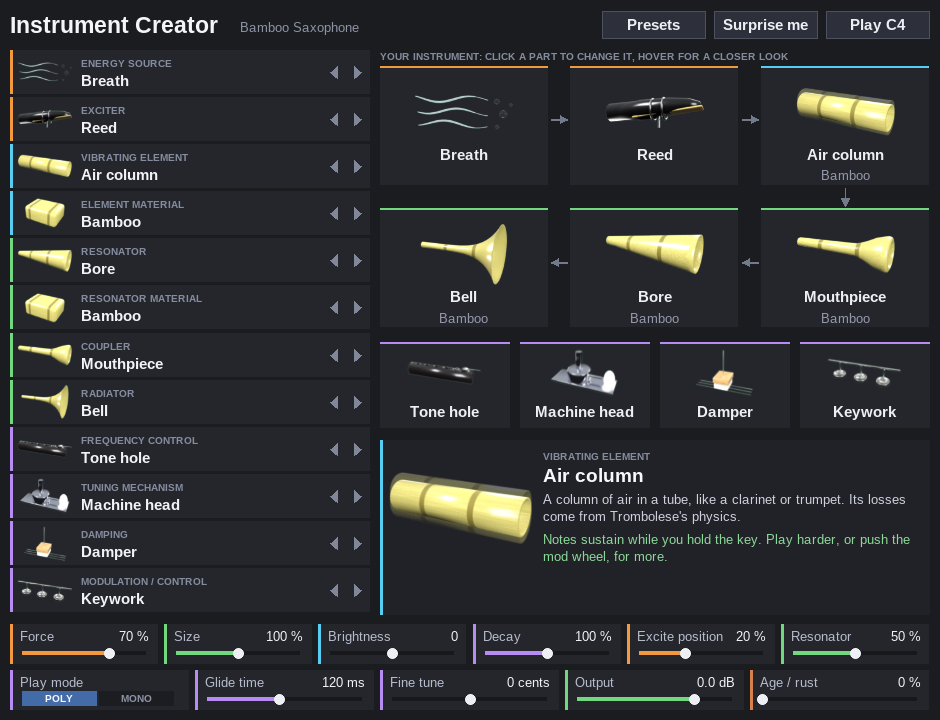
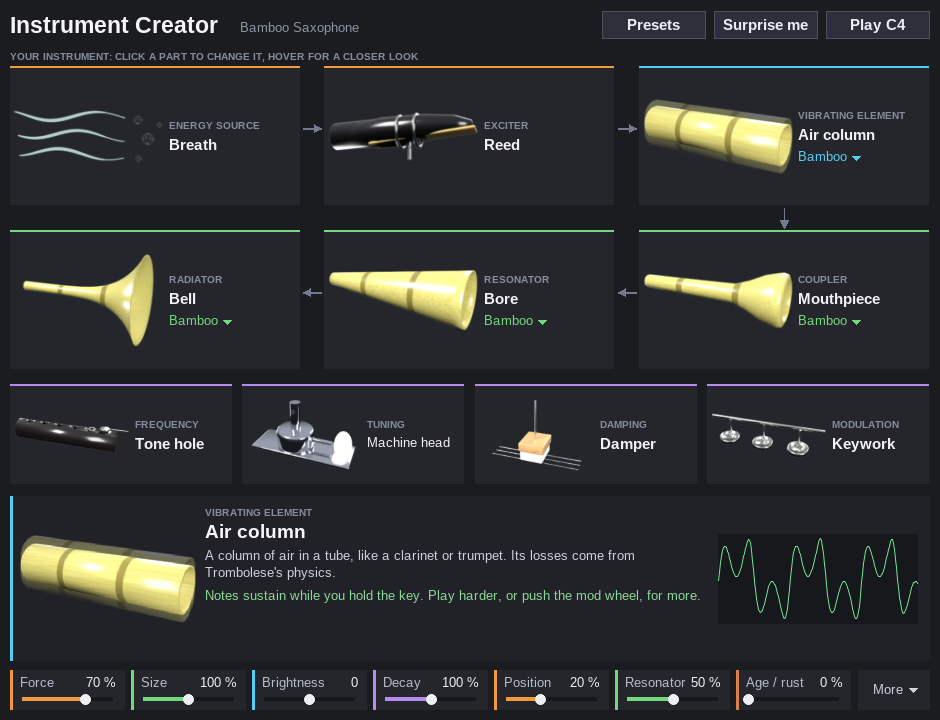
Window: one diagram instead of list plus diagram; four controls under More
The part list duplicated the diagram, so it is gone: the diagram spans the
window, each tile with its picture, category, option and material, arrows
on hover and the wheel to step. Materials are chosen from the coloured
material name or a Made of submenu in each part's menu. Seven controls sit
in one row; Play mode, Glide, Fine tune and Output open under More.
@init now sets gfx_ext_retina = 1, so Retina screens get full resolution.
Test tools: shot.py SHOT_CLICK, click CLICK_MENU and all 23 sliders. ADR 0021.

Claude-Session: https://claude.ai/code/session_015mY9pQ7jEQsUcyLH33i2Qr

diff --git a/tools/click.cpp b/tools/click.cpp
@@ -2,7 +2,7 @@
 // usage: click fx.jsfx out.bgra|- width height step... [slider=value ...]
 // A step is one @gfx frame: "x,y,buttons[,mods[,wheel]]" (buttons: 1 left,
 // 4 right; mods: 1 shift, 2 ctrl, 4 alt), or "wait=MS" to let real time pass
-// (double-clicks are timed). Prints slider 13-23 values, and which sliders
+// (double-clicks are timed). Prints every slider value (1-23), and which sliders
 // the window changed, automated and touched.
 #include "ysfx.h"
 #include <chrono>
@@ -11,7 +11,8 @@
 #include <cstring>
 #include <vector>
 static void logr(intptr_t, ysfx_log_level l, const char *m){ fprintf(stderr,"[%s] %s\n", ysfx_log_level_string(l), m); }
-static int32_t menu(void*, const char*, int32_t, int32_t){ return 0; }
+// CLICK_MENU=n picks item n of any popup menu (0 = none); CLICK_MENU_SHOW prints the menu
+static int32_t menu(void*, const char*m, int32_t, int32_t){ if(getenv("CLICK_MENU_SHOW")) fprintf(stderr,"menu: %s\n",m); return getenv("CLICK_MENU")?atoi(getenv("CLICK_MENU")):0; }
 int main(int argc,char**argv){
   if(argc<5){fprintf(stderr,"usage\n");return 1;}
   ysfx_config_t*c=ysfx_config_new(); ysfx_set_log_reporter(c,&logr);
@@ -38,7 +39,7 @@ int main(int argc,char**argv){
     chg|=ysfx_fetch_slider_changes(fx,0); aut|=ysfx_fetch_slider_automations(fx,0); tch|=ysfx_fetch_slider_touches(fx,0);
   }
   ysfx_gfx_update_mouse(fx,0,-1,-1,0,0,0); ysfx_gfx_run(fx);
-  for(int s=13;s<=23;s++) printf("%d=%g ", s, ysfx_slider_get_value(fx,s-1));
+  for(int s=1;s<=23;s++) printf("%d=%g ", s, ysfx_slider_get_value(fx,s-1));
   printf("\nchanged=%llx automated=%llx touched=%llx visible=%llx\n",(unsigned long long)chg,(unsigned long long)aut,(unsigned long long)tch,(unsigned long long)ysfx_get_slider_visibility(fx,0));
   if(strcmp(argv[2],"-")){ FILE*fo=fopen(argv[2],"wb"); fwrite(px.data(),1,px.size(),fo); fclose(fo); }
   ysfx_free(fx); return 0;

diff --git a/tools/shot.cpp b/tools/shot.cpp
@@ -1,7 +1,8 @@
 // Headless screenshot of a JSFX's @gfx: writes raw BGRA pixels.
 // usage: shot fx.jsfx out.bgra width height mouse_x mouse_y [slider=value ...]
 // Runs one second of audio with a held note first, so meters have something to show.
-// SHOT_SCALE=2 in the environment draws as on a Retina screen (gfx_ext_retina = 2).
+// SHOT_SCALE=2 in the environment draws as on a Retina screen (gfx_ext_retina = 2);
+// SHOT_CLICK=1 clicks once at the mouse position first (menus return nothing).
 #include "ysfx.h"
 #include <cstdio>
 #include <cstdlib>
@@ -29,7 +30,9 @@ int main(int argc,char**argv){
   ysfx_gfx_config_t gc{}; gc.pixel_width=w; gc.pixel_height=h; gc.pixel_stride=4*w; gc.pixels=px.data(); gc.scale_factor=getenv("SHOT_SCALE")?atof(getenv("SHOT_SCALE")):1.0; gc.show_menu=&menu;
   ysfx_gfx_setup(fx,&gc);
   ysfx_gfx_set_window_state(fx,true,true,true);
-  for(int k=0;k<3;k++){ ysfx_gfx_update_mouse(fx,0,mx,my,0,0,0); ysfx_gfx_run(fx); }
+  // SHOT_CLICK=1: click once at the mouse position before the last frame
+  bool clk=getenv("SHOT_CLICK")!=nullptr;
+  for(int k=0;k<4;k++){ ysfx_gfx_update_mouse(fx,0,mx,my,(clk&&k==1)?ysfx_button_left:0,0,0); ysfx_gfx_run(fx); }
   FILE*fo=fopen(argv[2],"wb"); fwrite(px.data(),1,px.size(),fo); fclose(fo);
   ysfx_free(fx); return 0;
 }

diff --git a/README.md b/README.md
@@ -41,22 +41,33 @@ Reverberator makes a very good partner after it.
 
 ## Using the window
 
-- **The list on the left** has your twelve choices: the ten parts, plus what
-  the vibrating element and the resonator are made of. Click a row for a menu,
-  click the small arrows to step through the options, or roll the mouse wheel
-  over it.
-- **The picture on the right** is your instrument, drawn part by part, in the
-  order the energy flows through it. Click any part in it to change it. The
-  element's picture moves when it sounds.
-- **Hover over anything** and the panel at the bottom shows a big picture of
-  that part, what it does, and (for materials) how stiff and heavy it is and
-  how long it rings. The green line tells you how your combination will play,
+- **The big picture** is your instrument, part by part, in the order the
+  energy flows through it (the arrows), with the four controls (frequency
+  control, tuning, damping, modulation) in the row underneath. Each part
+  shows its picture, what kind of part it is, and which option you chose.
+  To change a part:
+  - click it for a menu of its options;
+  - or hover over it and click the small arrows in its top corner to step
+    through them;
+  - or roll the mouse wheel over it.
+- **Materials.** The vibrating element, resonator, coupler and radiator also
+  show what they are made of, in colour with a small ▾. Click the material
+  name for the list of 31 materials, or roll the wheel over it. The part's
+  own menu has them too, under **Made of**. The resonator, coupler and
+  radiator always share one material, so changing it on one changes all
+  three. The element's picture shimmers while it sounds.
+- **Hover over anything** (a part, a material name, a control) and the
+  panel at the bottom shows a big picture of it, what it does, and (for a
+  material) how stiff and heavy it is and how long it rings. The green line tells you how your combination will play,
   and the little screen shows the sound's waveform as you play.
-- **The controls along the bottom** (Force, Size, Brightness, Decay and the
-  rest, described [below](#the-controls)) shape how it plays. Drag one to
-  change it (hold **Shift** for small steps), roll the mouse wheel over it,
-  or double-click it to put it back to normal. Hover over one and the panel
-  explains what it does. Play mode is a switch: click Poly or Mono.
+- **The controls along the bottom** (Force, Size, Brightness, Decay,
+  Position, Resonator and Age, described [below](#the-controls)) shape how
+  it plays. Drag one to change it (hold **Shift** for small steps), roll the
+  mouse wheel over it, or double-click it to put it back to normal. Hover
+  over one and the panel explains what it does.
+- **More** (bottom right) opens a second row with the four controls you
+  usually set once: Play mode (a switch: click Poly or Mono), Glide time,
+  Fine tune and Output. Click **Less** to tuck them away again.
 - **Presets** has 19 ready-made instruments to start from. **Surprise me**
   picks every part at random. **Play C4** plays a note so you can hear a change
   without touching your keyboard.
@@ -352,7 +363,7 @@ python3 tools/trims.py                   # loudness trims after a sound change
 python3 tools/shot.py out.png            # screenshot of the window
 python3 tools/render_parts.py            # re-render every part picture in Blender (~40 min)
 python3 tools/render_parts.py --blend    # save the models as .blend files in blender/
-tools/build/click Instrument-Creator.jsfx - 940 720 103,649,0 103,649,1 40,649,1 40,649,0   # drag a control
+tools/build/click Instrument-Creator.jsfx - 940 720 85,699,0 85,699,1 40,699,1 40,699,0   # drag a control
 python3 tools/spectrograms.py out.png    # spectrograms of every preset
 ```
 

diff --git a/docs/adr/0021-one-diagram-materials-in-menus-four-controls-und.md b/docs/adr/0021-one-diagram-materials-in-menus-four-controls-und.md
@@ -1,0 +1,54 @@
+# 0021. One diagram, materials in menus, four controls under More
+
+- Status: Accepted
+- Date: 2026-10-08
+- Amends: [0012](0012-a-window-drawn-entirely-in-code.md) (the part list is
+  gone), [0019](0019-every-control-in-the-window-reaper-sliders-hidden.md)
+  (one row of controls, not two)
+
+## Context
+
+With the 3D pictures (ADR 0020) the user found the window busy and asked
+what could go under a tab or into a menu. Every part was shown three times:
+a row in the list on the left (icon, name, arrows), a tile in the diagram,
+and the preview panel. Eleven controls filled two rows, four of them
+(play mode, glide, fine tune, output) usually set once.
+
+## Decision
+
+- **The list goes; the diagram is the one place to choose parts**, across
+  the whole width. Each tile (`tile()`) puts the picture on the left and the
+  category, the option and (for the element, resonator, coupler and
+  radiator) the material on the right. A click opens the part's menu; arrows
+  appear in the top corner on hover; the wheel steps the option. The four
+  control parts use the same tile, smaller.
+- **Materials live in menus.** The material name on a tile is coloured with
+  a ▾: click it for the 31 materials (`part_menu(3 or 5)`), roll the wheel
+  over it to step, hover it to see the material in the preview panel. The
+  part's own menu ends with a "Made of" submenu. Menu ids count items only
+  (REAPER's `eel_lice.h` and ysfx's `ysfx_parse_menu.cpp` agree: separators
+  and submenu headings take no id), so an id above the option count is a
+  material.
+- **Seven controls in one row** (Force, Size, Brightness, Decay, Position,
+  Resonator, Age) and a **More** button that shows a second row with Play
+  mode, Glide, Fine tune and Output (`more_ctl`, window-only, not saved).
+- `@init` sets `gfx_ext_retina = 1`, which REAPER needs before it draws at
+  full resolution on a Retina screen; the layout already scaled by `gsc`.
+  Before this the window was drawn at 1× and enlarged by macOS.
+
+## Consequences
+
+- Each part appears twice (tile and preview), and the pictures are larger.
+- Changing the resonator material from the coupler or radiator tile changes
+  all three, as before; the README says so.
+- `more_ctl` resets to closed when the window is reopened.
+- Narrow windows: control names fall back from full to short to tiny
+  (`ctl_tiny`); tile captions to `cat_short`, option names to the small
+  font.
+
+## Alternatives considered
+
+- **Tabs** (Build / Play): would hide the controls while choosing parts or
+  the parts while playing; both are wanted at once.
+- **Keep the list, drop the diagram**: the list is compact, but the diagram
+  shows how the parts connect and has room for the pictures.

diff --git a/CLAUDE.md b/CLAUDE.md
@@ -43,7 +43,7 @@ tools/build_host.sh       builds ysfx (with graphics) and four hosts into tools/
 tools/render.cpp          MIDI events file -> raw float32 stereo
 tools/shot.cpp            screenshot of @gfx (plays a note first); tools/shot.py -> PNG; SHOT_SCALE=2 for Retina
 tools/render_parts.py     Blender (pip install bpy): models every part, renders Instrument-Creator-images/
-tools/click.cpp           drive @gfx with a mouse script; prints sliders 13-23 and automation flags
+tools/click.cpp           drive @gfx with a mouse script; prints sliders 1-23 and automation flags; CLICK_MENU=n picks menu item n
 tools/inspect.cpp         dump plugin memory after N blocks of a held note
 tools/analyse.py          render/measure helpers (LUFS, YIN pitch), the part and material name lists
 tools/sweep.py            every energy x exciter x element: level, pitch, flags
@@ -63,13 +63,14 @@ matplotlib`). `tools/build/` is git-ignored.
 ```
 1 energy source  2 exciter  3 vibrating element  4 element material  5 resonator
 6 resonator material  7 coupler  8 radiator  9 frequency control  10 tuning
-11 damping  12 modulation   (1-12 hidden; the window shows them, row = slider - 1)
+11 damping  12 modulation   (1-12 hidden; tile(c) in the window shows slider c + 1)
 13 force  14 size  15 brightness  16 decay  17 excite position  18 resonator amount
 19 play mode  20 glide time  21 fine tune  22 output  23 age / rust
 ```
 
 All 23 are hidden from REAPER's slider list (`-` before the name) and drawn
-in the window: 13-23 as the control strip (`control()`, ADR 0019), whose
+in the window: 13-23 as the control strip (`control()`, ADR 0019; one row
+and More, ADR 0021), whose
 ranges, defaults and log midpoints are repeated in `ctl_min/max/def/mid`;
 change both.
 
@@ -88,7 +89,9 @@ python3 tools/age_test.py                     # ~10 min
 python3 tools/shot.py out.png 940 720 mx my 3=2 4=8   # then look at the PNG
 SHOT_SCALE=2 python3 tools/shot.py out.png 1880 1440   # as on the user's Retina Mac
 python3 tools/render_parts.py --out /tmp/x --samples 16 --mats 12 2_0   # draft one shape; no args = all (~35 min)
-tools/build/click Instrument-Creator.jsfx - 940 720 103,649,0 103,649,1 40,649,1 40,649,0   # drag Force
+tools/build/click Instrument-Creator.jsfx - 940 720 85,699,0 85,699,1 40,699,1 40,699,0   # drag Force
+CLICK_MENU=12 tools/build/click Instrument-Creator.jsfx - 940 720 700,140,0 700,140,1 700,140,0   # element menu: Made of > Glass
+SHOT_CLICK=1 python3 tools/shot.py out.png 940 720 890 690   # click once (here: More) before the screenshot
 ```
 
 ## EEL2 traps (Reverberator ADR 0010, and new ones)

diff --git a/docs/SESSION-LOG.md b/docs/SESSION-LOG.md
@@ -354,6 +354,33 @@ out sprite sheets declared that way (ADR 0020).
   `materials.blend` is a labelled table of swatches (first try viewed them
   head-on and flat; now from above at an angle, scaled to fit the lights).
 
+## 19. A calmer window
+
+The user found the window busy and asked what could go under a tab or into
+a menu. Each part was shown three times (list row, diagram tile, preview)
+and eleven controls filled two rows. ADR 0021:
+
+- The list is gone; the diagram spans the window, each tile with the
+  picture on the left and category / option / material on the right,
+  arrows on hover, wheel to step. Materials: click the coloured name (or the
+  part menu's "Made of" submenu, ids after the options: REAPER's
+  `eel_lice.h` and ysfx number only real items).
+- One row of seven controls plus **More** for play mode, glide, fine tune
+  and output.
+- **Retina was never on.** `gfx_ext_retina` must be set to 1 in `@init`
+  for REAPER (and ysfx: `wants_retina`) to give the window full resolution;
+  without it `SHOT_SCALE=2` drew at 1× in a 2× window. The user's REAPER
+  screenshot in §16 was therefore a 1× window enlarged by macOS. Now set.
+- Tools: `shot.py` takes `SHOT_CLICK=1` (one click at the mouse position;
+  the first version passed the button as the modifier argument of
+  `ysfx_gfx_update_mouse(fx, mods, x, y, buttons, wheel, hwheel)` and
+  nothing happened); `click` prints all 23 sliders and takes `CLICK_MENU=n`.
+- Checked with `click`: element menu item 12 → Glass; material name item 1
+  → Steel; the exciter's right arrow → Lips; wheel over the material → next
+  material, over the bell → next radiator; resonator menu item 7 → Brass;
+  Force drag 70 → 21. Screenshots at 800×480, 940×720 (More open and shut),
+  1880×1440 at 2×, and without the picture folder (drawings).
+
 ## Where things stand
 
 - Every energy × exciter × element combination plays and is stable at 44.1,
@@ -403,6 +430,8 @@ Candidate next steps, roughly in order of value:
    part's model should change: each is one function in
    `tools/render_parts.py`; re-render just that shape with
    `python3 tools/render_parts.py 4_2` (needs `pip install bpy imagequant`).
+   The same session removed the part list and put four controls under More
+   (§19, ADR 0021), and switched on Retina drawing: ask how both look.
 1. Feedback from REAPER on the new window: the control strip (drag, Shift,
    wheel, double-click, Poly/Mono), the part menus, automation of hidden
    sliders, window size for an instance saved at the old 940×640, CPU on the

diff --git a/docs/PARTS-AND-MATERIALS.md b/docs/PARTS-AND-MATERIALS.md
@@ -70,7 +70,7 @@ nonlinearity and the limiter, all feed-forward.
   writes the sliders themselves, as REAPER does.
 - Globals derived from sliders are recomputed by `update_globals` in
   `@slider`, and in `@block` when the window has changed a slider
-  (`gui_dirty`). All 23 sliders are hidden in REAPER; the window's part list
+  (`gui_dirty`). All 23 sliders are hidden in REAPER; the window's part tiles
   and control strip set them with `slider(n) = v; slider_automate(2^(n-1))`
   (ADR 0019). Part changes take effect at the next note-on (per-voice
   setup is done in `voice_start`), except shared-stage filters and the
@@ -712,7 +712,17 @@ aftertouch (+0.4 L), CC2, CC11, CC64, CC67, CC120/123 (all off).
 and drawn by `control(k, …)` in `@gfx`, control `k` = slider `13 + k`. The
 ranges and defaults repeat the `sliderN:` lines in `ctl_min/ctl_max/ctl_def`;
 `ctl_mid > 0` makes the track log on each half, with that value in the
-middle (`ctl_pos`/`ctl_val`); values are rounded to `ctl_step`.
+middle (`ctl_pos`/`ctl_val`); values are rounded to `ctl_step`. One row
+holds k = 0-5 and 10; **More** (`more_ctl`) adds a row with k = 6-9 (ADR
+0021). Names fall back `ctl_title` → `ctl_short` → `ctl_tiny` as the
+control narrows.
+
+**The part tiles (ADR 0021).** `tile(c, …)`: picture on the left (width
+`min(0.5w, 1.5(h − 14))`), then `cat_title` (or `cat_short`), the option,
+and for `mat_cat(c) ≥ 0` the material with a ▾. Click: arrows (top corner,
+on hover) step, the material opens `part_menu(mat_cat(c))`, elsewhere
+`part_menu(c)`, which ends with a "Made of" submenu: ids 1…n are options,
+n + 1… are materials. Wheel: over the material steps it, else the option.
 
 | k | slider | range | default | track |
 |---|---|---|---|---|

diff --git a/docs/adr/README.md b/docs/adr/README.md
@@ -30,6 +30,7 @@ where useful the alternatives that were rejected.
 | [0018](0018-age-is-one-macro-over-the-existing-physics.md) | Age is one macro over the existing physics |
 | [0019](0019-every-control-in-the-window-reaper-sliders-hidden.md) | Every control in the window, REAPER's slider list hidden |
 | [0020](0020-rendered-pictures-in-a-folder-drawings-as-fallb.md) | Rendered pictures in a folder, drawings as the fallback |
+| [0021](0021-one-diagram-materials-in-menus-four-controls-und.md) | One diagram, materials in menus, four controls under More |
 
 Related: Reverberator's ADRs 0001 (JSFX first), 0002 (physical constants),
 0005 (dispersion budget), 0007 (loudness), 0008 (feed-forward nonlinear paths),

diff --git a/docs/adr/0012-a-window-drawn-entirely-in-code.md b/docs/adr/0012-a-window-drawn-entirely-in-code.md
@@ -1,6 +1,6 @@
 # 0012. A window drawn entirely in code
 
-- Status: Accepted; amended by [0020](0020-rendered-pictures-in-a-folder-drawings-as-fallb.md) (the drawings are now the fallback for rendered pictures)
+- Status: Accepted; amended by [0020](0020-rendered-pictures-in-a-folder-drawings-as-fallb.md) (the drawings are now the fallback for rendered pictures) and [0021](0021-one-diagram-materials-in-menus-four-controls-und.md) (the part list is gone)
 - Date: 2026-09-30
 
 ## Context

diff --git a/docs/adr/0019-every-control-in-the-window-reaper-sliders-hidden.md b/docs/adr/0019-every-control-in-the-window-reaper-sliders-hidden.md
@@ -1,6 +1,6 @@
 # 0019. Every control in the window, REAPER's slider list hidden
 
-- Status: Accepted
+- Status: Accepted; amended by [0021](0021-one-diagram-materials-in-menus-four-controls-und.md) (one row of seven controls; play mode, glide, fine tune and output under More)
 - Date: 2026-10-01
 
 ## Context
